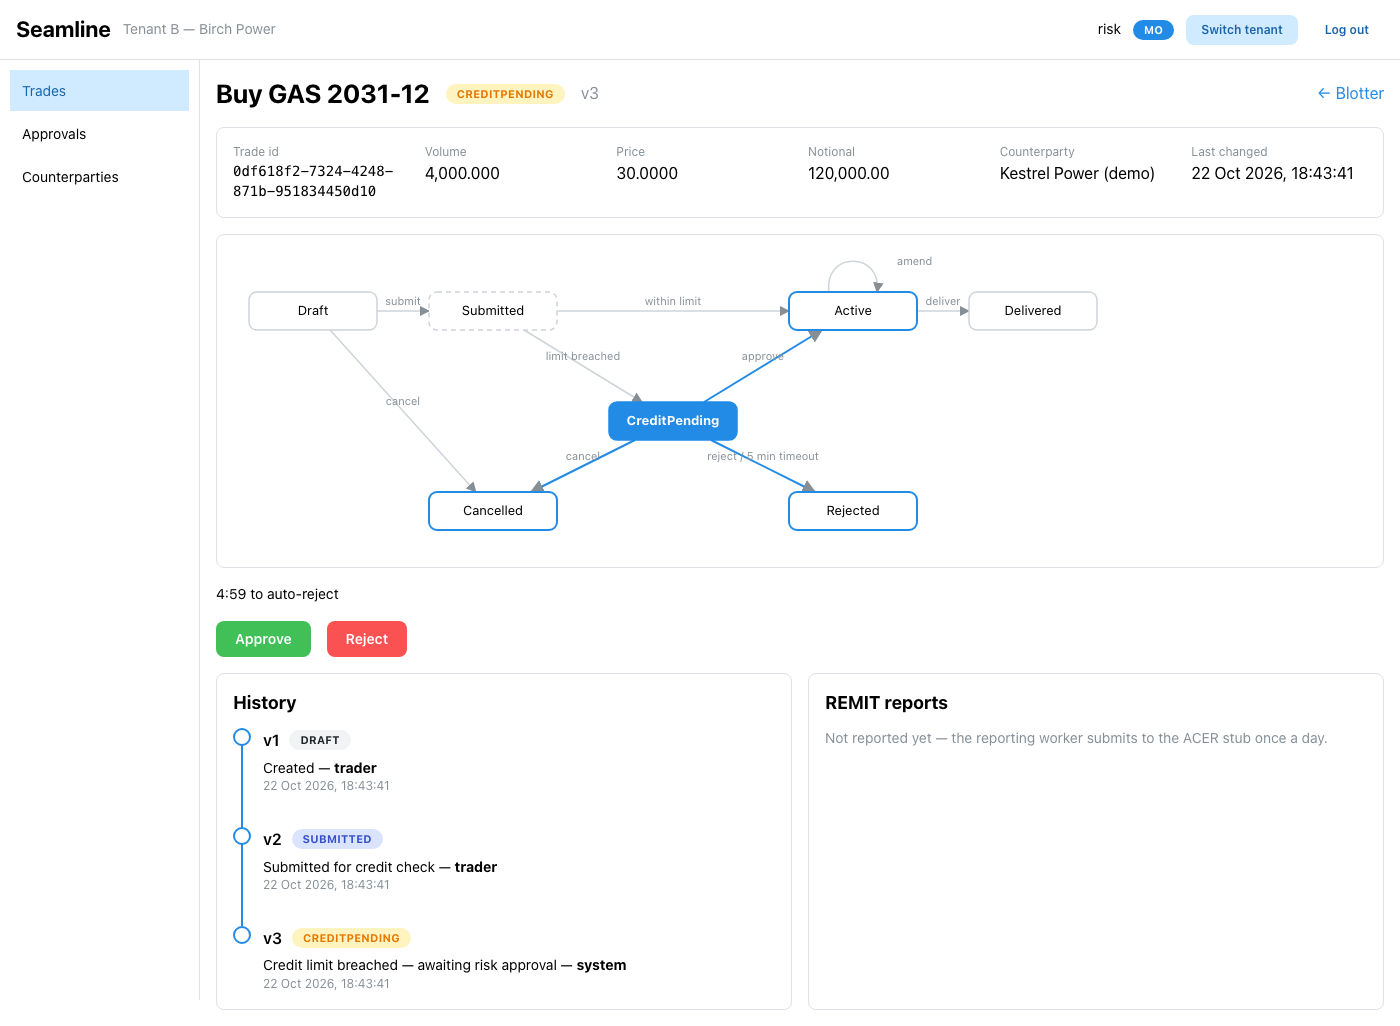
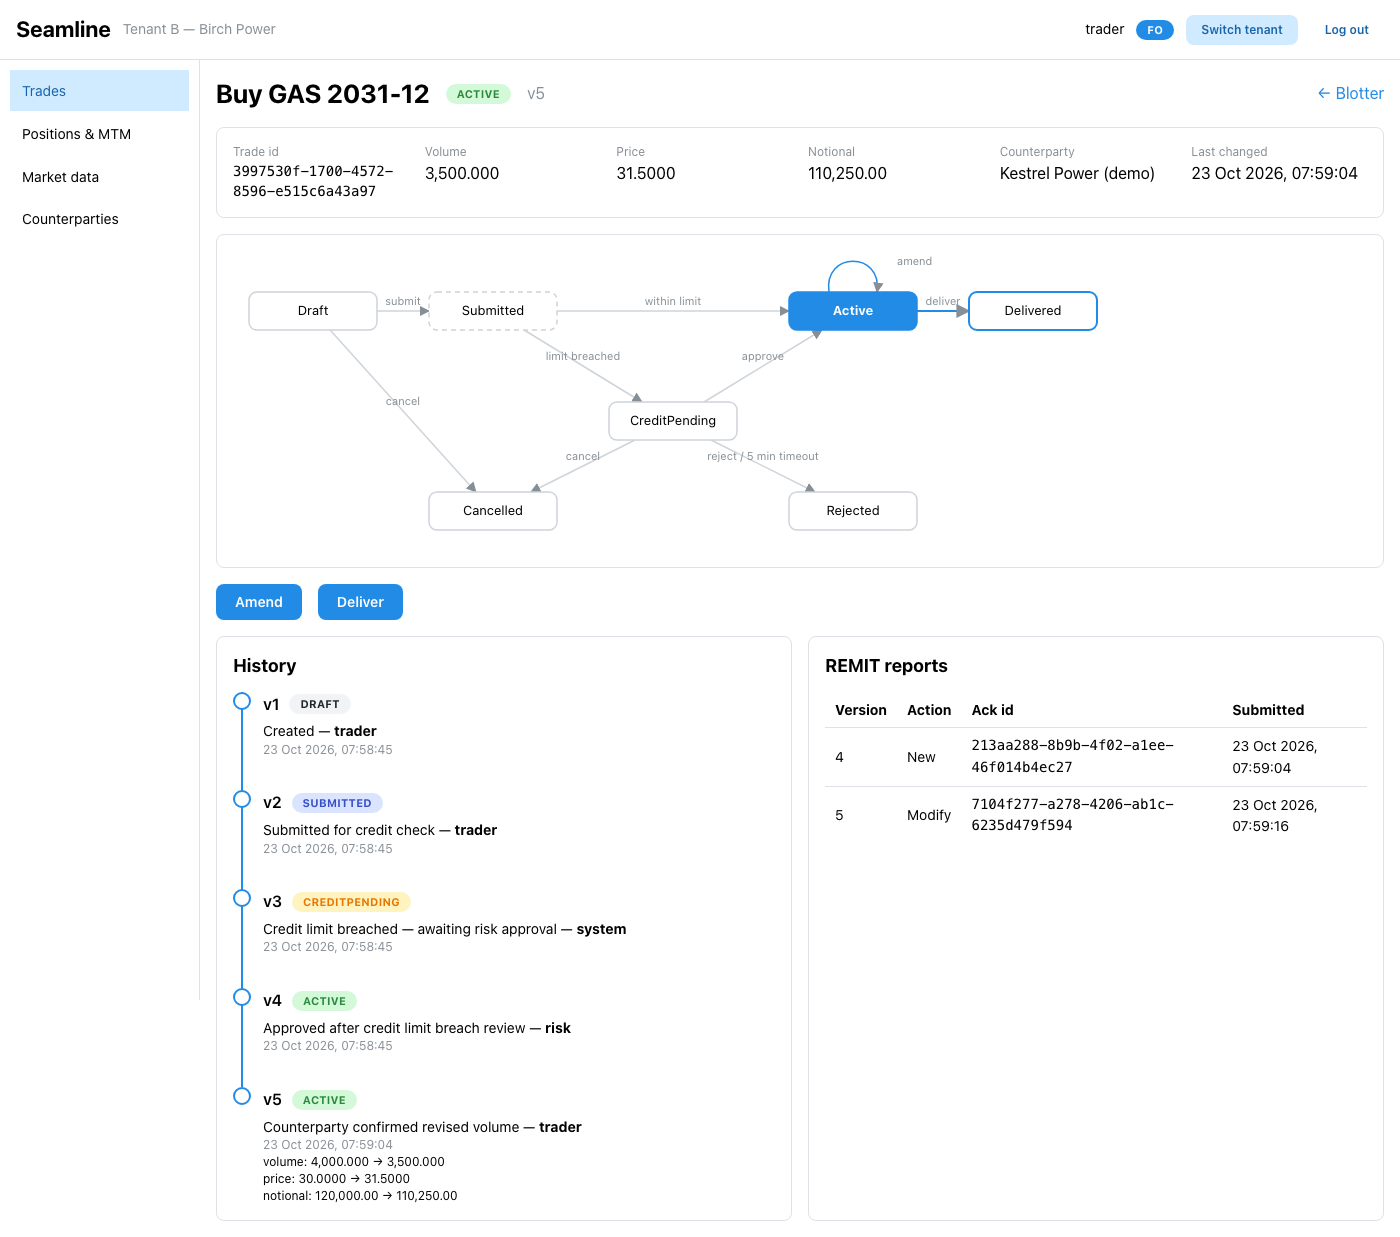
docs(readme): Show REMIT reports in the trade detail screenshot
The previous screenshot caught a trade in CreditPending, before any report
existed. The new one follows a breach through approval and an amendment,
so the history shows the four-eyes step and the field diff, and the REMIT
panel shows the New and Modify reports acknowledged by the ACER stub.

diff --git a/README.md b/README.md
@@ -105,7 +105,7 @@ contains no business logic and does no arithmetic on money or volume —
 every notional and total comes from the server; `web/src/format/` only
 formats.
 
-![Trade detail: state machine with CreditPending lit, approval countdown, four-eyes actions and version history](docs/images/web-ui-trade-detail.png)
+![Trade detail: a limit breach approved by risk, then amended — version history with the field diff and the REMIT New/Modify reports acknowledged by the ACER stub](docs/images/web-ui-trade-detail.png)
 
 ![Stress scenarios: total MTM per scenario against the base from the same EOD run](docs/images/web-ui-stress.png)
 
